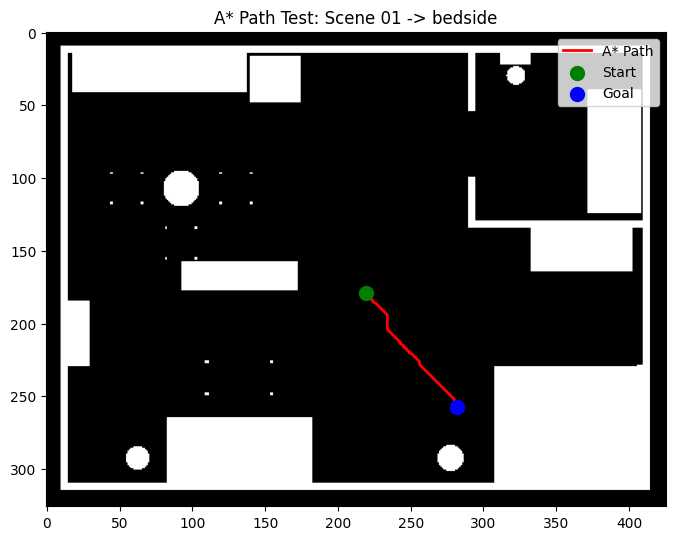
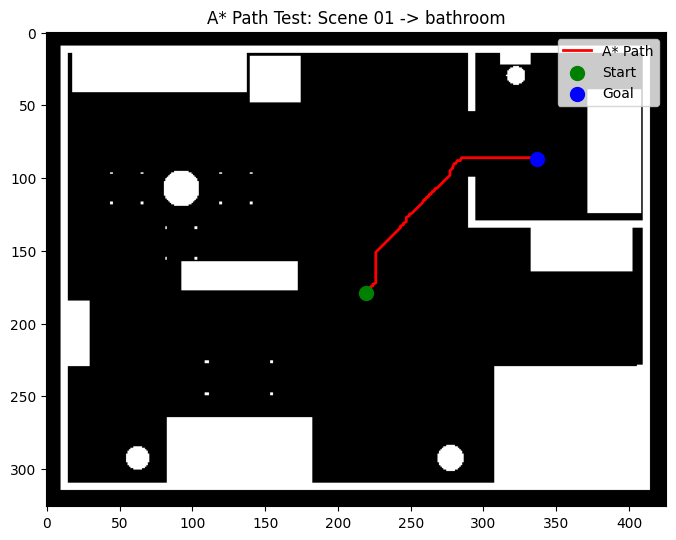
Attempt to make robot mark obstacles that is not on the map

diff --git a/controller.py b/controller.py
@@ -1,33 +1,17 @@
 import time
+import json
 import math
 import numpy as np
 
 class Controller:
-    def __init__(self, client, robot_info, camera_info=None):
+    def __init__(self, client, planner, robot_info, camera_info=None):
         self.client = client
         self.camera_info = camera_info
-        turn_rate = 1.5
+        self.planner = planner
+        turn_rate = 0.8
         self.turn_wheel_speed = turn_rate * robot_info["wheel_base"] / 2 / robot_info["wheel_radius"]
 
-    def is_path_clear(self, target_distance, leeway=0.05):
-        if not self.camera_info:
-            print("Warning: No camera info provided. Assuming path is clear.")
-            return True
-        try:
-            header, jpg, raw = self.client.latest_camera()
-            depth = np.frombuffer(raw, "<u2").reshape(header["height"], header["width"]) * self.camera_info["depth_scale"]
-
-            h, w = depth.shape
-            center_region = depth[int(h*0.3):int(h*0.7), int(w*0.3):int(w*0.7)]
-            valid = center_region[center_region > 0.05]
-
-            if valid.size > 0 and np.min(valid) <= min(target_distance + leeway, 2.0):
-                return False
-        except Exception as e:
-            pass
-        return True
-
-    def execute_goal_mission(self, goal_idx, goal_name, goal_pose, planner, current_pose=None):
+    def execute_goal_mission(self, goal_idx, goal_name, goal_pose, current_pose=None):
         target_x, target_y = goal_pose[0], goal_pose[1]
 
         print(f"Planning path to goal '{goal_name}' at x={target_x}, y={target_y}")
@@ -40,12 +24,11 @@ class Controller:
 
         dist_to_goal = math.hypot(target_x - current_pose["x"], target_y - current_pose["y"]) if current_pose else None
 
-        # Check if the direct path is clear using both the map and camera data
-        map_clear = planner.is_line_safe(current_pose, goal_pose) if current_pose else False
-        camera_clear = self.is_path_clear(dist_to_goal)
+        # Check if the direct path is clear using current map data
+        map_clear = self.planner.is_line_safe(current_pose, goal_pose) if current_pose else False
 
         direct_success = False
-        if map_clear and camera_clear:
+        if map_clear:
             direct_success = self.navigate_direct_path(goal_idx, goal_name, goal_pose)
 
         if direct_success:
@@ -53,7 +36,9 @@ class Controller:
         
         # A* fallback if direct navigation fails or is not clear
         print(f"Using A* waypoints...")
-        return self.navigate_A_star_path(planner, goal_idx, goal_name, goal_pose)
+
+
+        return self.navigate_A_star_path(goal_idx, goal_name, goal_pose)
 
 
     def navigate_direct_path(self, goal_idx, goal_name, goal_pose):
@@ -82,6 +67,8 @@ class Controller:
             status = goto_info["status"]
             pose = robot_state["pose"]
 
+            self.planner.visualize(robot_pose=pose)
+
             print(f"🔄 Direct path | Pose: x={pose['x']:.2f}, y={pose['y']:.2f}, yaw={pose['yaw']:.2f} | Status: {status}", end="\r")
 
             if goto_info.get("id") == goto_id:
@@ -90,8 +77,10 @@ class Controller:
                     direct_success = True
                     break
                 elif status == "bumped":
-                    print(f"\nDirect path bumped an obstacle! Executing recovery rotation...")
-                    self.execute_recovery_rotation()
+                    print(f"\n💥 Robot bumped an obstacle! Marking and recovering...")
+                    # Precisely mark the obstacle using the robot pose at the moment of impact
+                    self.planner.mark_obstacle_from_bumper(pose)
+                    self.execute_recovery()
                     print("Recovery rotation complete. Switching to A* planner...")
                     break
             time.sleep(0.02)
@@ -102,28 +91,38 @@ class Controller:
         
         return direct_success
 
-    def navigate_A_star_path(self, planner, goal_idx, goal_name, goal_pose):
-        robot_state = self.client.latest_state()
-        current_pose = robot_state["pose"]
-        path = planner.plan(current_pose, goal_pose)
+    def navigate_A_star_path(self, goal_idx, goal_name, goal_pose):
+        max_attempts = 5
+        for attempt in range(max_attempts):
+            # self.update_map_from_camera()
 
-        if not path:
-            print(f"❌ A* failed to find a path to '{goal_name}'. Skipping...")
-            return False
+            robot_state = self.client.latest_state()
+            current_pose = robot_state["pose"]
+            path = self.planner.plan(current_pose, goal_pose)
 
-        print(f"A* path found with {len(path)} waypoints. Navigating...")
-        waypoints = self.optimize_path(current_pose, path, planner)
-        if path[-1] not in waypoints:
-            waypoints.append(path[-1])
+            if not path:
+                print(f"❌ A* failed to find a path to '{goal_name}'. Waiting and retrying...")
+                time.sleep(0.5)
+                continue
 
-        navigation_success = self.navigate_waypoints(goal_idx, goal_name, waypoints, goal_pose)
-        
-        if navigation_success:
-            self.mark_goal(goal_name)
+            print(f"A* path found with {len(path)} waypoints. Navigating...")
+            waypoints = self.optimize_path(current_pose, path)
+            if path[-1] not in waypoints:
+                waypoints.append(path[-1])
 
-        return navigation_success
+            navigation_success = self.navigate_waypoints(goal_idx, goal_name, waypoints, goal_pose)
+            
+            if navigation_success:
+                self.mark_goal(goal_name)
+                return True
+            else:
+                print("🔄 Bump detected during navigation. Re-running A* search with updated map...")
+                time.sleep(0.2)
 
-    def optimize_path(self, current_pose, path, planner):
+        print(f"❌ Failed to reach goal '{goal_name}' after {max_attempts} attempts.")
+        return False
+
+    def optimize_path(self, current_pose, path):
         """Greedily prunes redundant waypoints along clear straight lines to minimize goto commands."""
         if not path:
             return []
@@ -136,7 +135,7 @@ class Controller:
             for j in range(len(path) - 1, i, -1):
                 start_p = {"x": path[i][0], "y": path[i][1]}
                 target_pose = [path[j][0], path[j][1]]
-                if planner.is_line_safe(start_p, target_pose):
+                if self.planner.is_line_safe(start_p, target_pose):
                     best_j = j
                     break
             optimized.append(path[best_j])
@@ -183,6 +182,8 @@ class Controller:
             status = goto_info["status"]
             pose = robot_state["pose"]
 
+            self.planner.visualize(robot_pose=pose)
+
             print(f"🔄 Pose: x={pose['x']:.2f}, y={pose['y']:.2f}, yaw={pose['yaw']:.2f} | Goto status: {status}", end="\r")
 
             if goto_info.get("id") != goto_id:
@@ -193,27 +194,44 @@ class Controller:
                 print(f"\nReached waypoint {wp_idx + 1}/{num_waypoints} for '{goal_name}'.")
                 has_reached_wp = True
             elif status == "bumped":
-                print(f"\nRobot bumped an obstacle while heading to waypoint {wp_idx + 1}/{num_waypoints}! Executing recovery rotation...")
-                
-                self.execute_recovery_rotation()
+                print(f"\n💥 Robot bumped an obstacle! Marking and recovering...")
+                # Precisely mark the obstacle using the robot pose at the moment of impact
+                self.planner.mark_obstacle_from_bumper(pose)
+                self.execute_recovery()
                 return False  # Indicate that the navigation failed due to a bump
 
             time.sleep(0.02)  # Poll matching the state stream rate (~50 Hz)
 
         return True  # Indicate that the waypoint was successfully reached
 
-    def execute_recovery_rotation(self):
-        """Rotate in place to clear the bumper sensor[cite: 1]."""
-        recovery_end = time.monotonic() + 1.5
-        while time.monotonic() < recovery_end:
-            self.client.send_wheels(-self.turn_wheel_speed, self.turn_wheel_speed)
+    def update_map_from_camera(self):
+        if not self.camera_info:
+            return
+        try:
+            header, _, raw = self.client.latest_camera()
+            header = json.loads(header)
+            depth = np.frombuffer(raw, "<u2").reshape(header["height"], header["width"]) * self.camera_info["depth_scale"]
+            
+            robot_state = self.client.latest_state()
+            self.planner.mark_obstacle_from_camera(depth, self.camera_info, robot_state["pose"])
+        except Exception as e:
+            print(f"⚠ Failed to update map from camera: {e}")
+
+    def execute_recovery(self):
+        """Rotate in place to clear the bumper sensor."""
+        reverse_end = time.monotonic() + 2.0
+        while time.monotonic() < reverse_end:
+            self.client.send_wheels(-2.0, -2.0)  # Both wheels backward
             time.sleep(0.05)
+
+        # Stop briefly after backing up
         self.client.send_wheels(0.0, 0.0)
+        time.sleep(0.1)
 
     def normalize_angle(self, angle):
         return (angle + math.pi) % (2 * math.pi) - math.pi
 
-    def rotate_to(self, target_yaw, tolerance=0.02, timeout=5.0):
+    def rotate_to(self, target_yaw, tolerance=0.01, timeout=5.0):
         """Rotate the robot to a specific yaw angle (in radians) with a given tolerance."""
         start_time = time.monotonic()
         while time.monotonic() - start_time < timeout:
@@ -233,7 +251,7 @@ class Controller:
         return False  # Failed to rotate within the timeout
 
     def mark_goal(self, goal_name):
-        """Mark goal as reached via RPC[cite: 1]."""
+        """Mark goal as reached via RPC."""
         print(f"🎉 Successfully arrived at '{goal_name}'! Calling mark_goal...")
         try:
             mark_res, _ = self.client.call("mark_goal", name=goal_name)

diff --git a/planner.py b/planner.py
@@ -24,6 +24,7 @@ class Planner:
 
         # Create a circular structuring element (footprint mask) for C-Space dilation
         radius_px = math.ceil(self.radius / self.resolution)
+        self.radius_px = radius_px
         y, x = np.ogrid[-radius_px:radius_px+1, -radius_px:radius_px+1]
         structuring_element = x**2 + y**2 <= (radius_px)**2
 
@@ -32,42 +33,9 @@ class Planner:
         obstacles = grid > 127
         inflated_obstacles = binary_dilation(obstacles, structure=structuring_element)
 
-        self.grid = np.zeros_like(grid)
-        self.grid[inflated_obstacles] = 255
-
-    def is_safe_to_occupy(self, row, col):
-        """Check if the robot can safely occupy the cell at (row, col) considering its footprint."""
-        if not (0 <= row < self.height and 0 <= col < self.width):
-            return False
-        return self.grid[row, col] <= 127
-
-    def is_line_safe(self, start_pose, goal_pose, step_size=0.05):
-        """Check if the straight line from start_pose to goal_pose is free of obstacles."""
-        start_row, start_col = self.world_to_map(start_pose["x"], start_pose["y"])
-        goal_row, goal_col = self.world_to_map(goal_pose[0], goal_pose[1])
-
-        distance = math.hypot(goal_pose[0] - start_pose["x"], goal_pose[1] - start_pose["y"])
-        num_steps = max(1, int(distance / step_size))
-
-        for i in range(num_steps + 1):
-            t = i / num_steps
-            r = int(start_row + t * (goal_row - start_row))
-            c = int(start_col + t * (goal_col - start_col))
-            if not self.is_safe_to_occupy(r, c):
-                return False
-        return True
-
-    def map_to_world(self, row, col):
-        """Convert map coordinates (pixels) to world coordinates (m)."""
-        x = self.origin[0] + (col + 0.5) * self.resolution
-        y = self.origin[1] + (self.height - 1 - row + 0.5) * self.resolution
-        return x, y
-
-    def world_to_map(self, x, y):
-        """Convert world coordinates (m) to map coordinates (pixels)."""
-        col = int((x - self.origin[0]) / self.resolution - 0.5)
-        row = int(self.height - 1 - ((y - self.origin[1]) / self.resolution - 0.5))
-        return row, col
+        self.base_grid = np.zeros_like(grid)
+        self.base_grid[inflated_obstacles] = 255
+        self.grid = self.base_grid.copy()
 
     def plan(self, start, goal):
         """Plan a path from start to goal using A*."""
@@ -125,3 +93,84 @@ class Planner:
                     heapq.heappush(open_set, (f_score, neighbor_row, neighbor_col))
 
         return []  # No path found
+
+    def is_safe_to_occupy(self, row, col):
+        """Check if the robot can safely occupy the cell at (row, col) considering its footprint."""
+        if not (0 <= row < self.height and 0 <= col < self.width):
+            return False
+        return self.grid[row, col] <= 127
+
+    def is_line_safe(self, start_pose, goal_pose, step_size=0.05):
+        """Check if the straight line from start_pose to goal_pose is free of obstacles."""
+        start_row, start_col = self.world_to_map(start_pose["x"], start_pose["y"])
+        goal_row, goal_col = self.world_to_map(goal_pose[0], goal_pose[1])
+
+        distance = math.hypot(goal_pose[0] - start_pose["x"], goal_pose[1] - start_pose["y"])
+        num_steps = max(1, int(distance / step_size))
+
+        for i in range(num_steps + 1):
+            t = i / num_steps
+            r = int(start_row + t * (goal_row - start_row))
+            c = int(start_col + t * (goal_col - start_col))
+            if not self.is_safe_to_occupy(r, c):
+                return False
+        return True
+
+    def mark_obstacle_from_bumper(self, robot_pose):
+        """Precisely mark an obstacle at the robot's perimeter when a bumper collision occurs."""
+        x, y, yaw = robot_pose["x"], robot_pose["y"], robot_pose["yaw"]
+        
+        # Robot radius is 0.17m (0.34m diameter / 2)
+        robot_radius = 0.17
+        
+        # The contact point is exactly at the robot's outer edge along its current yaw heading
+        obs_x = x + robot_radius * math.cos(yaw)
+        obs_y = y + robot_radius * math.sin(yaw)
+        
+        r, c = self.world_to_map(obs_x, obs_y)
+        if 0 <= r < self.height and 0 <= c < self.width: # note: self.width
+            # Inflate with robot radius footprint so future paths steer clear of it
+            for dr in range(-self.radius_px, self.radius_px + 1):
+                for dc in range(-self.radius_px, self.radius_px + 1):
+                    nr, nc = r + dr, c + dc
+                    if 0 <= nr < self.height and 0 <= nc < self.width:
+                        if math.hypot(dr * self.resolution, dc * self.resolution) <= self.radius:
+                            self.grid[nr, nc] = 255
+                            
+        print(f"🛑 Bumper hit! Precisely marked obstacle at world coords ({obs_x:.2f}, {obs_y:.2f})")
+    
+    def map_to_world(self, row, col):
+        """Convert map coordinates (pixels) to world coordinates (m)."""
+        x = self.origin[0] + (col + 0.5) * self.resolution
+        y = self.origin[1] + (self.height - 1 - row + 0.5) * self.resolution
+        return x, y
+
+    def world_to_map(self, x, y):
+        """Convert world coordinates (m) to map coordinates (pixels)."""
+        col = round((x - self.origin[0]) / self.resolution)
+        row = round(self.height - 1 - ((y - self.origin[1]) / self.resolution))
+        return row, col
+
+    def visualize(self, robot_pose=None, path=None):
+        """Render the live occupancy grid map and robot position using OpenCV."""
+        import cv2
+        # Copy grid and convert to BGR color for overlays
+        img = self.grid.copy().astype(np.uint8)
+        img_bgr = cv2.cvtColor(img, cv2.COLOR_GRAY2BGR)
+
+        # Draw A* path if available (Blue line)
+        if path and len(path) > 1:
+            for i in range(len(path) - 1):
+                r1, c1 = self.world_to_map(path[i][0], path[i][1])
+                r2, c2 = self.world_to_map(path[i+1][0], path[i+1][1])
+                cv2.line(img_bgr, (c1, r1), (c2, r2), (255, 0, 0), 2)
+
+        # Draw robot position if available (Red filled circle)
+        if robot_pose:
+            rr, cc = self.world_to_map(robot_pose["x"], robot_pose["y"])
+            radius_px = max(int(self.radius / self.resolution), 3)
+            cv2.circle(img_bgr, (cc, rr), radius_px, (0, 0, 255), -1)
+
+        # Display window
+        cv2.imshow("Live Occupancy Grid Map", img_bgr)
+        cv2.waitKey(1)

diff --git a/main.py b/main.py
@@ -72,8 +72,8 @@ def main():
     camera_info, _ = client.call("get_camera_info")
 
     # Initialize the controller and planner
-    controller = Controller(client, robot_info, camera_info)
     planner = Planner(map_info, png)
+    controller = Controller(client, planner, robot_info, camera_info)
 
     # Get available goals
     goals = scene["goals"]
@@ -101,7 +101,7 @@ def main():
         robot_state = client.latest_state()
         current_pose = robot_state["pose"]
         
-        controller.execute_goal_mission(idx, goal_name, goal_pose, planner, current_pose=current_pose)
+        controller.execute_goal_mission(idx, goal_name, goal_pose, current_pose=current_pose)
 
     print("\n####################")
     print("All goals processed!")

diff --git a/test_planner.py b/test_planner.py
@@ -37,7 +37,7 @@ if not goals:
     print("Error: No goals found in scene.")
     exit(1)
 
-target_goal = goals[2]
+target_goal = goals[1]
 goal_pose = target_goal["pose"]
 print(f"Testing path to Goal '{target_goal['name']}' at pose: {goal_pose}")
 
